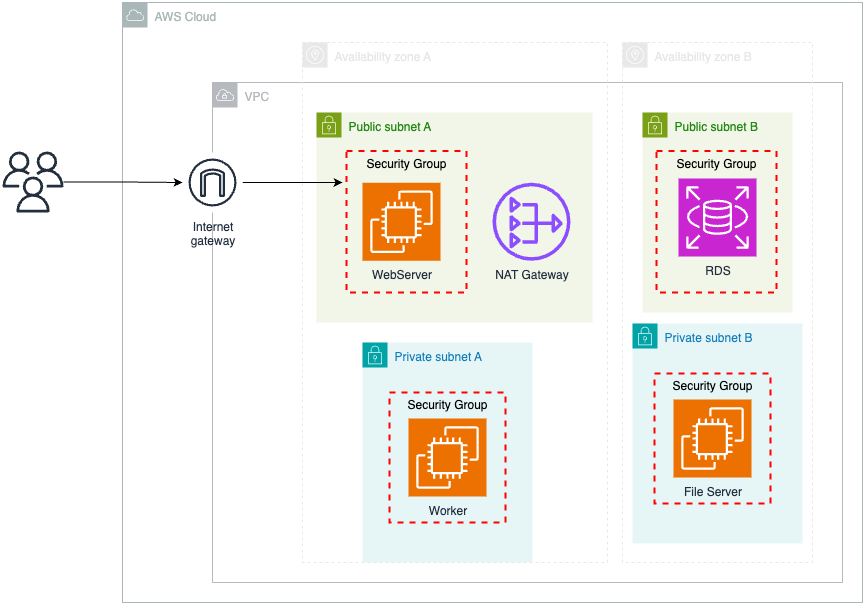
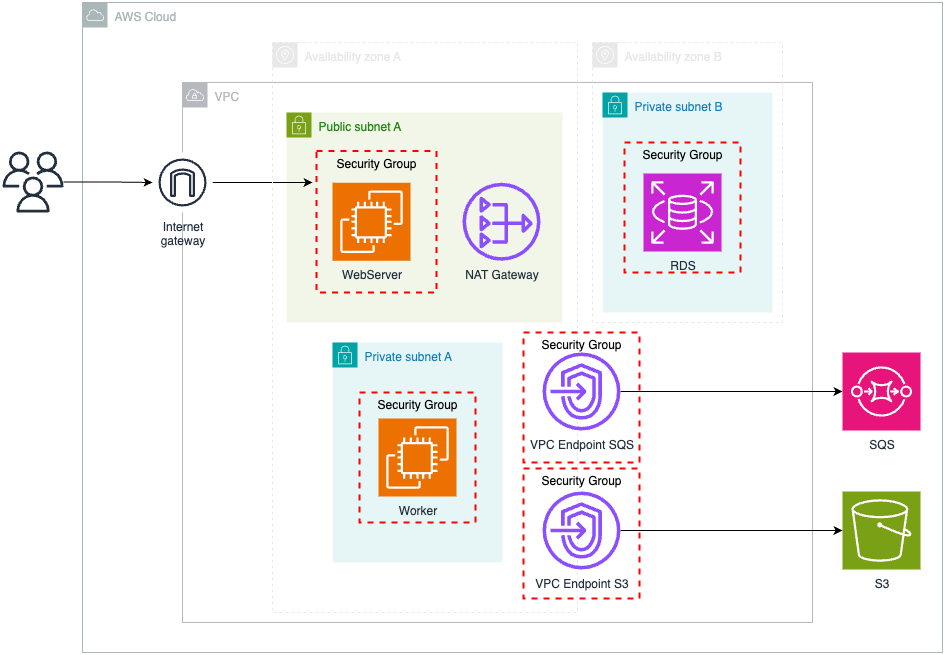
diagramas y documentación arquitectura

diff --git a/docs/Entrega_2/Diseno_Arquitectura.md b/docs/Entrega_2/Diseno_Arquitectura.md
@@ -1,0 +1,169 @@
+# Diseño de Arquitectura - Sistema de Procesamiento de Video
+
+## Resumen
+
+Sistema de procesamiento de video en AWS que permite a los usuarios cargar videos, procesarlos de forma asíncrona mediante workers, y almacenar los resultados.
+
+**Componentes:** 
+* Web Server (EC2) 
+* Worker (EC2) 
+* RDS PostgreSQL 
+* Amazon SQS 
+* Amazon S3
+
+
+## Arquitectura General
+
+### Diagrama de Arquitectura AWS
+
+![Diagrama de Arquitectura](/docs/Entrega_2/DiagramaArquitectura.png)
+
+El sistema sigue una arquitectura de **microservicios distribuidos** con procesamiento asíncrono donde el servidor web recibe solicitudes de usuarios, encola trabajos en SQS, y los workers procesan videos de forma independiente.
+
+### Flujo de Datos
+
+
+1. Usuario sube video → API Backend guarda en S3 y registra en RDS
+2. API Backend encola mensaje en SQS con detalles del trabajo
+3. Worker obtiene mensaje, descarga video de S3, lo procesa y sube resultado
+4. Worker actualiza estado en RDS
+5. Usuario consulta estado y descarga video procesado
+
+### Diagrama de Despliegue
+
+![Diagrama de Despliegue](/docs/Entrega_2/DiagramaDespliegue.png)
+
+
+## Componentes de la Arquitectura
+
+### 1. Web Server (EC2) - Public Subnet A
+
+Servidor web que aloja el frontend (Nginx) y el API Backend. Recibe solicitudes HTTP/HTTPS, interactúa con RDS, encola trabajos en SQS y sube archivos a S3.
+
+**Puertos:** 22 (SSH), 80 (HTTP), 443 (HTTPS), 8080 (API)
+
+### 2. Worker (EC2) - Private Subnet A
+
+Procesa videos de forma asíncrona. Obtiene mensajes de SQS, descarga videos de S3, los procesa (conversión, compresión), sube resultados y actualiza estados en RDS.
+
+**Acceso:** Sin acceso directo desde Internet, usa NAT Gateway
+
+### 3. RDS PostgreSQL - Private Subnet B
+
+Base de datos para metadatos de usuarios, información de trabajos de procesamiento y referencias a archivos en S3.
+
+**Configuración:** `publicly_accessible = false`, cifrado habilitado, backups automáticos
+
+### 4. Amazon SQS (Servicio Administrado)
+
+Cola de mensajes que desacopla Web Server de Workers, permitiendo escalamiento independiente y procesamiento asíncrono.
+
+**Acceso:** Via IAM roles (no security groups)
+
+### 5. Amazon S3 (Servicio Administrado)
+
+Almacenamiento de videos originales y procesados mediante URLs prefirmadas.
+
+**Estructura:**
+```
+bucket-name/
+├── input/user-id/video-id/original.mp4
+└── output/user-id/video-id/processed.mp4
+```
+
+### 6. NAT Gateway - Public Subnet A
+
+Permite que recursos en subnets privadas (Worker, RDS) accedan a Internet para actualizaciones y servicios AWS.
+
+### 7. VPC Endpoints
+
+- **SQS (Interface Endpoint):** Acceso privado a SQS sin Internet público
+- **S3 (Gateway Endpoint):** Acceso privado a S3, sin costo adicional
+
+**Beneficios:** Mayor seguridad, mejor rendimiento, reduce costos de NAT Gateway
+
+
+## Decisiones de Seguridad
+
+### Network Isolation
+
+**Decisión:** Subnets públicas y privadas separadas
+
+Web Server en subnet pública (accesible desde Internet), mientras Worker y RDS en subnets privadas (sin acceso directo desde Internet). Sigue el principio de mínimo privilegio.
+
+### RDS Accessibility
+
+**Decisión:** `publicly_accessible = false`
+
+La base de datos no es accesible desde Internet. Solo Web Server y Worker pueden conectarse mediante Security Groups. Acceso administrativo via Session Manager o bastion host.
+
+### Security Groups
+
+Cada componente tiene reglas específicas de mínimo privilegio:
+
+| Componente | Ingress | Egress |
+|------------|---------|--------|
+| **Web Server** | SSH (IPs autorizadas), HTTP/HTTPS (0.0.0.0/0), API (VPC) | Todo permitido |
+| **Worker** | SSH (IPs autorizadas) | Todo permitido |
+| **RDS** | PostgreSQL (Web Server SG, Worker SG) | Todo permitido |
+| **VPC Endpoints** | HTTPS (VPC CIDR) | Todo permitido |
+
+### IAM Roles
+
+**Web Server Role:** `sqs:SendMessage`, `s3:PutObject`, `s3:GetObject`  
+**Worker Role:** `sqs:ReceiveMessage`, `sqs:DeleteMessage`, `s3:*Object`  
+**RDS Monitoring Role:** `AmazonRDSEnhancedMonitoringRole`
+
+Uso de IAM Roles en lugar de credenciales hardcodeadas para mayor seguridad y rotación automática.
+
+### Encryption
+
+Cifrado en reposo habilitado en todos los recursos:
+- RDS: `storage_encrypted = true`
+- S3: Server-side encryption (SSE-S3)
+- EBS: Cifrado en volúmenes de EC2
+
+
+## Entorno de Desarrollo con LocalStack
+
+LocalStack emula servicios AWS localmente (S3, SQS) para desarrollo sin costos.
+
+**Ventajas:** Sin costos AWS, testing rápido, sin Internet requerido, mismo código local y producción
+
+**Flujo:**
+- **Local:** Web/Worker → LocalStack (localhost:4566) → PostgreSQL local
+- **AWS:** Web/Worker (EC2) → SQS/S3 real → RDS PostgreSQL
+
+
+## Despliegue con Terraform
+
+**Orden:** VPC/Networking → Security Groups → IAM Roles → RDS → S3/SQS → EC2 → VPC Endpoints
+
+```bash
+terraform init
+terraform plan
+terraform apply
+```
+
+**Variables en `terraform.tfvars`:**
+```hcl
+project_name         = "video-processing"
+allowed_ssh_cidr     = "tu.ip.publica/32"
+db_username          = "admin"
+db_password          = "secure-password"
+web_instance_class   = "t3.medium"
+worker_instance_class = "t3.large"
+```
+
+**Scripts user-data:** Actualizan sistema, instalan dependencias, clonan repo, configuran variables de entorno e inician servicios.
+
+
+## Referencias
+
+- [AWS Well-Architected Framework](https://aws.amazon.com/architecture/well-architected/)
+- [AWS VPC Best Practices](https://docs.aws.amazon.com/vpc/latest/userguide/vpc-security-best-practices.html)
+- [Amazon RDS Best Practices](https://docs.aws.amazon.com/AmazonRDS/latest/UserGuide/CHAP_BestPractices.html)
+- [Amazon SQS Best Practices](https://docs.aws.amazon.com/AWSSimpleQueueService/latest/SQSDeveloperGuide/sqs-best-practices.html)
+- [Terraform AWS Provider](https://registry.terraform.io/providers/hashicorp/aws/latest/docs)
+- [LocalStack Documentation](https://docs.localstack.cloud/)
+

diff --git a/README.md b/README.md
@@ -44,10 +44,20 @@ Una vez ejecutado `make local`:
 
 ### Documentación
 
-Toda la documentación del proyecto se encuentra en `docs/Entrega_1/`:
+Toda la documentación para la Entrega 1 del proyecto se encuentra en `docs/Entrega_1/`:
 
 - **Diagrama ERD** - Modelo de datos y relaciones
 - **Diagramas C4** - Arquitectura del sistema (niveles 1, 2 y 3)
 - **Diagrama de flujo de procesamiento** - Proceso completo de carga y procesamiento de videos
 - **Decisiones de Arquitectura** - Justificación de decisiones de diseño clave
 - **Especificación API (Swagger)** - Documentación completa de endpoints
+
+Toda la documentación para la Entrega 2 del proyecto se encuentra en `docs/Entrega_2/`:
+
+- **Diagrama de Arquitectura** - Arquitectura definida
+- **Diagrama de Despliegue** - Diagrama de despliegue
+- **Documentacion Arquitectura** - Explicación del diseño de la arquitectura.
+- **Documentacion Pruebas** - Procedimiento y explicación de la estructura de las pruebas de carga.
+- **Pruebas de carga** - Ejecución de las pruebas de carga
+- **Reportes PDF** - Resumen de los reportes de las pruebas de Funcionalidad, Carga Normal y Estrés.
+

diff --git a/docs/Entrega_2/Ejecucion_Pruebas.md b/docs/Entrega_2/Ejecucion_Pruebas.md
@@ -3,9 +3,6 @@
 **Servidor:** http://13.223.138.92  
 **Herramienta:** Apache JMeter 5.6.3  
 
-Jaime Ramos\
-Marilyn Joven
-
 
 ## 1. Resumen 
 
